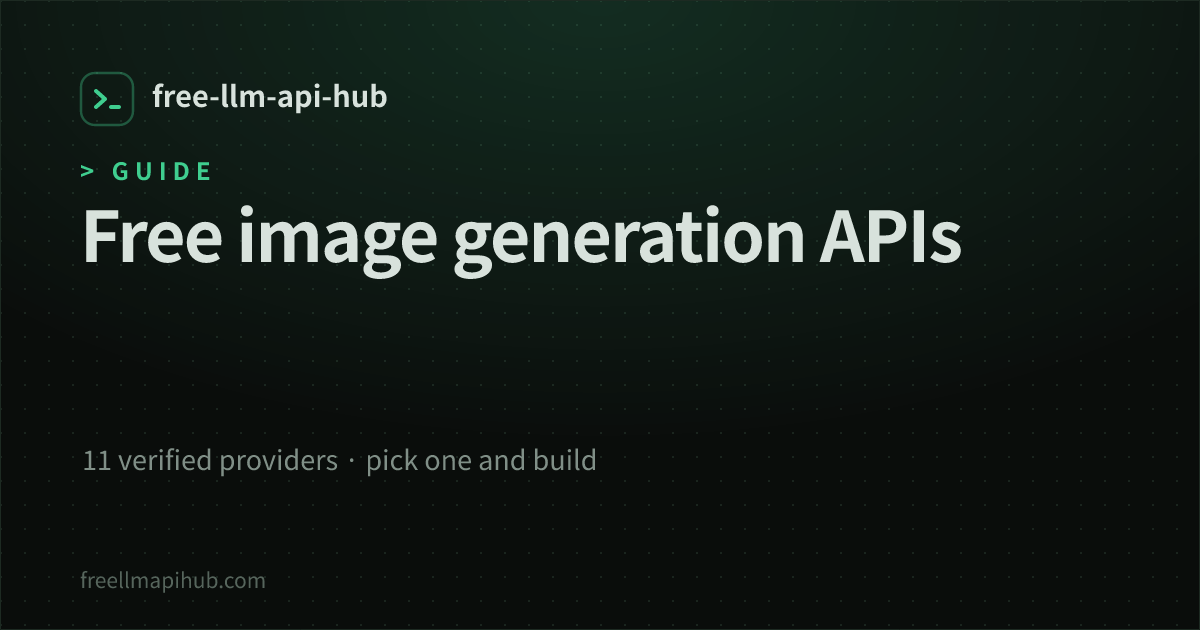
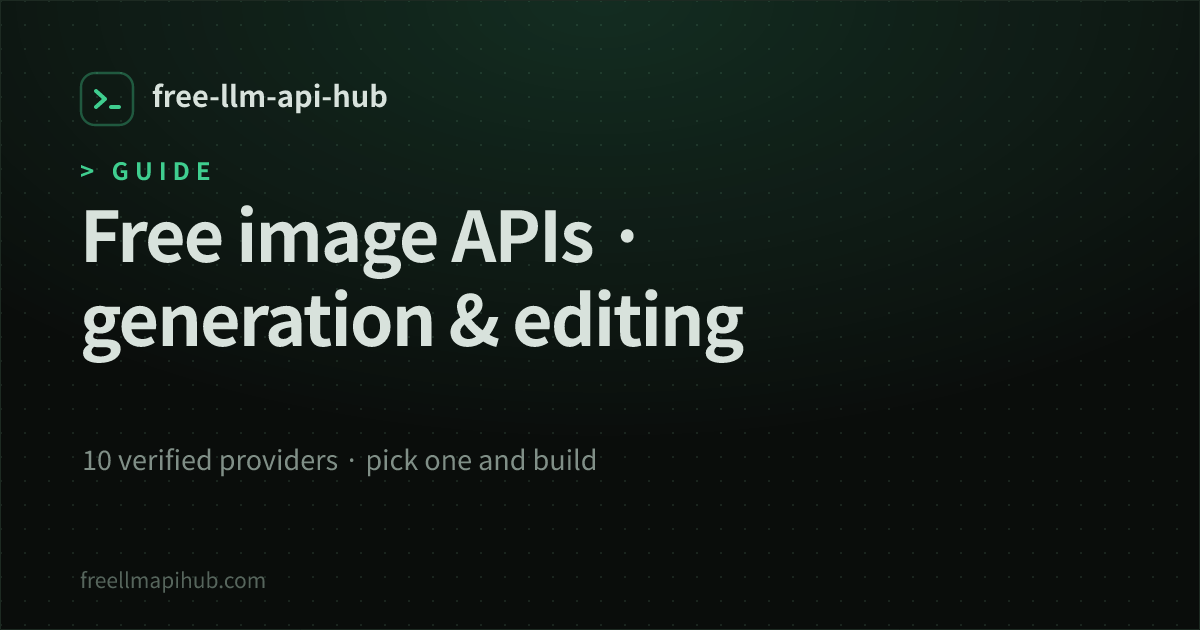
fix: align SEO discovery guides with verified provider data (#621)

Changed region(s): [[0.0617, 0.3317, 0.8017, 0.573], [0.0617, 0.7238, 0.0925, 0.754]]

diff --git a/README.md b/README.md
@@ -64,6 +64,22 @@ Primarily **free LLM (text) APIs** — plus the adjacent model APIs a builder re
 
 Filter any category live in the [interactive explorer](https://freellmapihub.com/) or the [multimodal collection](collections/multimodal.md).
 
+## Browse by API requirement
+
+The [guides and collections](https://freellmapihub.com/guides-and-collections/) compare dated provider rows, limits and catches.
+
+| Requirement | Compare |
+|---|---|
+| No payment card | [No-card tiers and trials](https://freellmapihub.com/collections/no-credit-card) |
+| No signup | [Account requirements explained](https://freellmapihub.com/guides/free-llm-api-no-signup) — no phone and no card does **not** mean no account |
+| OpenAI SDK | [OpenAI-compatible endpoints](https://freellmapihub.com/collections/openai-compatible) — feature support can differ |
+| Embeddings / RAG | [Embedding APIs](https://freellmapihub.com/guides/free-embeddings-apis) |
+| OCR / documents | [OCR and document parsing](https://freellmapihub.com/guides/free-ocr-document-ai-apis) |
+| Voice | [Speech-to-text and text-to-speech](https://freellmapihub.com/guides/free-speech-to-text-apis) |
+| Images | [Image generation and editing](https://freellmapihub.com/guides/free-image-generation-apis) — check which operations each tier includes |
+
+Video generation is not currently a tracked modality in the dataset. There is no verified video comparison here; image or vision support does not establish video-generation access.
+
 ## TL;DR — pick by what you actually need
 
 Each pick links to its full verified profile on the live site.
@@ -143,7 +159,7 @@ Worth saying plainly. As of the last verification pass, **OpenAI, Anthropic and 
 
 For genuinely free access to strong models, your best bets here are **Gemini** (frontier-class) and the free open-weight models on **Groq, OpenRouter, Cloudflare and Z.ai** (SiliconFlow's free models are on its China platform and need real-name verification).
 
-Retired or removed after re-verification: **Mistral** ([Free mode no longer includes API access](https://docs.mistral.ai/admin/billing-usage/usage-limits); API keys require billing activation and pay-as-you-go, checked 2026-11-14), **GitHub Models** (fully retired by GitHub on 2026-07-30 — playground, catalog and inference API shut down for all customers), **Cerebras** (now listed as a trial credit: the ongoing free tier became a payment-method-gated $5/30-day trial), **Inference.net** (the free tier is gateway/observability only, not free model tokens), and **Hyperbolic** (requires a $5 minimum deposit before any use).
+Retired or removed after re-verification: **Mistral** ([Free mode no longer includes API access](https://docs.mistral.ai/admin/billing-usage/usage-limits); API keys require billing activation and pay-as-you-go, checked 2026-11-14), **GitHub Models** (fully retired by GitHub on 2026-07-30 — playground, catalog and inference API shut down for all customers), **Cerebras** (now listed as a trial credit: the ongoing free tier became a payment-method-gated $5/30-day trial), **Inference.net** (the free tier is gateway/observability only, not free model tokens), and **Hyperbolic** (not included pending a complete inclusion review; the [current public-access check](docs/sources.md#checked-with-what-each-page-says) supersedes the earlier deposit finding).
 
 ## How verification works
 
